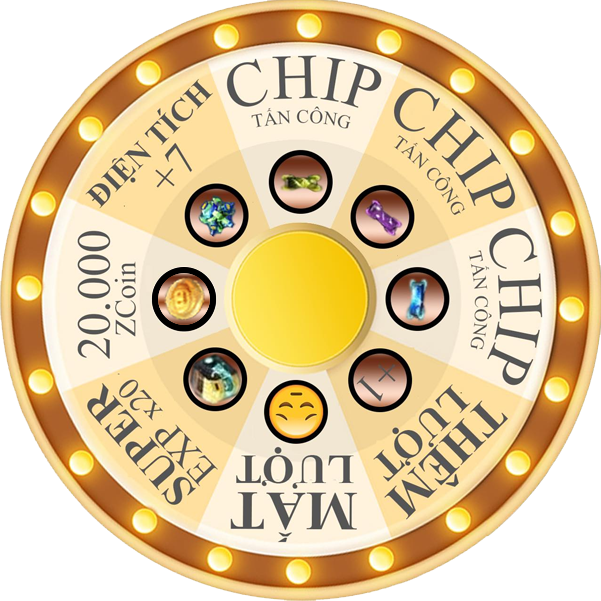
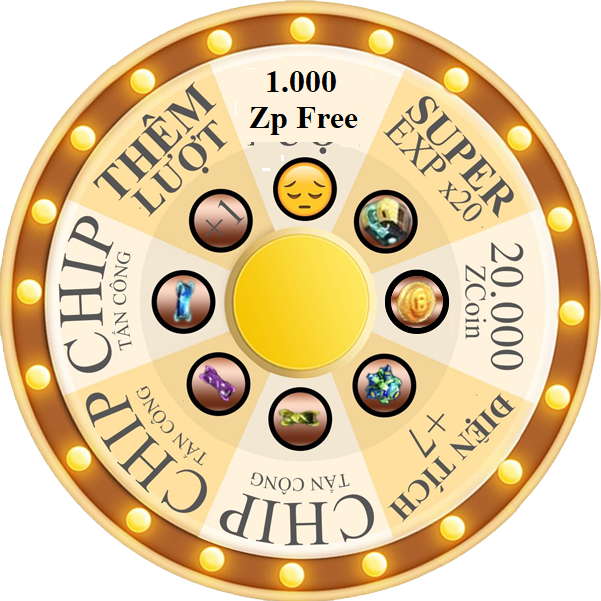
Fix bug + change wheel

diff --git a/id/ui/src/app/pages/register/register.component.html b/id/ui/src/app/pages/register/register.component.html
@@ -3,47 +3,57 @@
     <div class="form-2">
       <h1>Register now</h1>
       <div class="form-box">
-        <input type="text" class="form-input" id="username" autocomplete="off"  maxlength="12" required="required" [(ngModel)]="username" (ngModelChange)="username = username.toLowerCase()" autofocus="true" [ngModelOptions]="{standalone: true}">
-        <label for="username">">Account</label>
+        <input type="text" class="form-input" id="username" autocomplete="off" maxlength="12" required="required"
+          [(ngModel)]="username" (ngModelChange)="username = username.toLowerCase()" autofocus="true"
+          [ngModelOptions]="{standalone: true}">
+        <label for="username">Account</label>
       </div>
 
       <div class="line"></div>
 
 
       <div class="form-box">
-        <input type="password" class="form-input" id="passweb1" autocomplete="off" name="pass1" maxlength="12" required="required" [(ngModel)]="password" [ngModelOptions]="{standalone: true}">
+        <input type="password" class="form-input" id="passweb1" autocomplete="off" name="pass1" maxlength="12"
+          required="required" [(ngModel)]="password" [ngModelOptions]="{standalone: true}">
         <label for="passweb1">Password</label>
       </div>
 
       <div class="form-box">
-        <input type="email" class="form-input" id="email" autocomplete="off" name="email" maxlength="50" required="required" [(ngModel)]="email" [ngModelOptions]="{standalone: true}">
+        <input type="email" class="form-input" id="email" autocomplete="off" name="email" maxlength="50"
+          required="required" [(ngModel)]="email" [ngModelOptions]="{standalone: true}">
         <label for="email">Email</label>
       </div>
 
 
       <div class="form-box">
 
-        <select id="question" name="quest" class="form-select" [(ngModel)]="question" [ngModelOptions]="{standalone: true}">
+        <select id="question" name="quest" class="form-select" [(ngModel)]="question"
+          [ngModelOptions]="{standalone: true}">
           <option label="Favorite animal name?" value="1">Favorite animal name?</option>
-          <option label="What is the name of your primary school?" value="2">What is the name of your primary school?</option>
+          <option label="What is the name of your primary school?" value="2">What is the name of your primary school?
+          </option>
           <option label="The person you love the most?" value="3">The person you love the most?</option>
           <option label="The game you like the most?" value="4">The game you like the most?</option>
-          <option label="Where to leave the most unforgettable memories?" value="5">Where to leave the most unforgettable memories?</option>
+          <option label="Where to leave the most unforgettable memories?" value="5">Where to leave the most
+            unforgettable memories?</option>
         </select>
       </div>
 
       <div class="form-box">
-        <input type="text" class="form-input" id="answer" name="ans" required="" [(ngModel)]="answer" maxlength="50" [ngModelOptions]="{standalone: true}">
+        <input type="text" class="form-input" id="answer" name="ans" required="" [(ngModel)]="answer" maxlength="50"
+          [ngModelOptions]="{standalone: true}">
         <label for="answer">The secret answer</label>
       </div>
 
       <div class="form-box">
-        <input type="text" class="form-input" id="phone" name="tel" required="required" maxlength="10" [(ngModel)]="sdt" [ngModelOptions]="{standalone: true}">
+        <input type="text" class="form-input" id="phone" name="tel" required="required" maxlength="10" [(ngModel)]="sdt"
+          [ngModelOptions]="{standalone: true}">
         <label for="phone">Phone number</label>
       </div>
 
       <div class="captcha">
-        <button class="button button-blue" (click)="onRegister()" type="button" id="btn-register" name="submit" value="REGISTER ACCOUNT">
+        <button class="button button-blue" (click)="onRegister()" type="button" id="btn-register" name="submit"
+          value="REGISTER ACCOUNT">
           <i class="fa fa-clock-o"></i>
           <strong> REGISTER</strong>
         </button>

diff --git a/id/ui/src/app/pages/wheel/wheel.component.ts b/id/ui/src/app/pages/wheel/wheel.component.ts
@@ -1,7 +1,8 @@
-import {Component, OnInit} from '@angular/core';
-import {WheelService} from "../../shared/services/wheel.service";
-import {MessageService} from "../../shared/services/message.service";
+import { Component, OnInit } from '@angular/core';
+import { WheelService } from "../../shared/services/wheel.service";
+import { MessageService } from "../../shared/services/message.service";
 import { version } from '../../../../package.json';
+import * as moment from 'moment';
 declare const $: any;
 
 @Component({
@@ -40,22 +41,22 @@ export class WheelComponent implements OnInit {
       let element = this.el;
       let v_this = this;
 
-      $(this.el).animate({transform: v_stop}, {
-          step: function (now, fx) {
-            const current = parseInt((now / 45).toString());
-            if(!v_this.played[current]){
-              v_this.played[current] = true;
-              v_this.playSound();
-            }
-            fx.start = v_old;
-            if (now >= v_old) {
-              $(this).css('-webkit-transform', 'rotate(' + now + 'deg)');
-              $(this).css('-moz-transform', 'rotate(' + now + 'deg)');
-              $(this).css('transform', 'rotate(' + now + 'deg)');
-            }
-          },
-          duration: 5000
-        }, 'ease-out'
+      $(this.el).animate({ transform: v_stop }, {
+        step: function (now, fx) {
+          const current = parseInt((now / 45).toString());
+          if (!v_this.played[current]) {
+            v_this.played[current] = true;
+            v_this.playSound();
+          }
+          fx.start = v_old;
+          if (now >= v_old) {
+            $(this).css('-webkit-transform', 'rotate(' + now + 'deg)');
+            $(this).css('-moz-transform', 'rotate(' + now + 'deg)');
+            $(this).css('transform', 'rotate(' + now + 'deg)');
+          }
+        },
+        duration: 5000
+      }, 'ease-out'
       );
       //},0)
 
@@ -98,7 +99,11 @@ export class WheelComponent implements OnInit {
   initWheel(): void {
     this.wheelService.get<any>({}).subscribe(resp => {
       this.wheelCount = resp.wheelCount;
-      this.histories = resp.histories;
+      this.histories = resp.histories.map(item => {
+        const time: Date = new Date(item.createdDate);
+        item.time = this.fromNow(time);
+        return item;
+      });
     })
   }
 
@@ -122,6 +127,11 @@ export class WheelComponent implements OnInit {
       }, 5500);
     });
 
+  }
+
+  fromNow(time: Date): string {
+    moment.locale('vi');
+    return moment(time, 'yyyy-MM-DD HH:mm:ss').fromNow();
   }
 
 }

diff --git a/id/ui/src/app/pages/wheel/wheel.component.html b/id/ui/src/app/pages/wheel/wheel.component.html
@@ -22,10 +22,8 @@
               <section class="rotation">
                 <div class="play-spin">
                   <a class="ani-zoom" id="start-played" (click)="onWheel()">
-                    <img src="/assets/images/wheel_start.png"
-                         alt="Play Center"></a>
-                  <img [src]="'/assets/images/vongquaymayman.png?v=' + version" alt="Play"
-                       id="rotate-play">
+                    <img src="/assets/images/wheel_start.png" alt="Play Center"></a>
+                  <img [src]="'/assets/images/vongquaymayman.png?v=' + version" alt="Play" id="rotate-play">
 
                 </div>
 
@@ -41,21 +39,25 @@
                 <div class="table-responsive">
                   <table class="table table-striped table-red">
                     <thead>
-                    <tr>
-                      <th>#</th>
-                      <th>Tên nhân vật</th>
-                      <th><font color="#AA8052">Phần thưởng</font></th>
-                      <th><font color="green">Thời gian</font></th>
+                      <tr>
+                        <th>#</th>
+                        <th>Tên nhân vật</th>
+                        <th>
+                          <font color="#AA8052">Phần thưởng</font>
+                        </th>
+                        <th>
+                          <font color="green">Thời gian</font>
+                        </th>
 
-                    </tr>
+                      </tr>
                     </thead>
                     <tbody>
-                    <tr *ngFor="let history of histories; let i = index;">
-                      <td>{{i + 1}}</td>
-                      <td>{{history.charName}}</td>
-                      <td>{{history.desc}}</td>
-                      <td>{{history.createdDate | date: 'dd/MM/yyyy HH:mm:ss'}}</td>
-                    </tr>
+                      <tr *ngFor="let history of histories; let i = index;">
+                        <td>{{i + 1}}</td>
+                        <td>{{history.charName}}</td>
+                        <td>{{history.desc}}</td>
+                        <td>{{history.createdDate | date: 'dd/MM/yyyy HH:mm:ss'}} <b>({{history.time}})</b></td>
+                      </tr>
                     </tbody>
                   </table>
                 </div>

diff --git a/id/ui/src/app/pages/register/register.component.ts b/id/ui/src/app/pages/register/register.component.ts
@@ -1,8 +1,8 @@
 import { Component, OnInit } from '@angular/core';
-import {RouterConstant} from '../../core/infrastructure/router-constant';
-import {AuthService} from '../../shared/services/auth.service';
-import {Router} from '@angular/router';
-import {BaseComponent} from '../../shared/components/base.component';
+import { RouterConstant } from '../../core/infrastructure/router-constant';
+import { AuthService } from '../../shared/services/auth.service';
+import { Router } from '@angular/router';
+import { BaseComponent } from '../../shared/components/base.component';
 
 @Component({
   selector: 'app-register',
@@ -26,7 +26,16 @@ export class RegisterComponent extends BaseComponent implements OnInit {
   ngOnInit(): void {
   }
 
-  onRegister(){
+  validatePwd(pwd: string) {
+    const pattern = /^[a-z0-9]+$/;
+    return pattern.test(pwd);
+  }
+
+  onRegister() {
+    if (!this.validatePwd(this.password)) {
+      alert('Mật khẩu chỉ được chứa ký tự thường và số\nPassword required a-z and 0-9');
+      return;
+    }
     this.authService.Register({
       username: this.username,
       password: this.password,
@@ -34,7 +43,7 @@ export class RegisterComponent extends BaseComponent implements OnInit {
       question: +this.question,
       answer: this.answer,
       email: this.email
-    }).subscribe( resp => {
+    }).subscribe(resp => {
       alert('Successful account registration');
       this.router.navigate([RouterConstant.auth.login]).then();
     })
